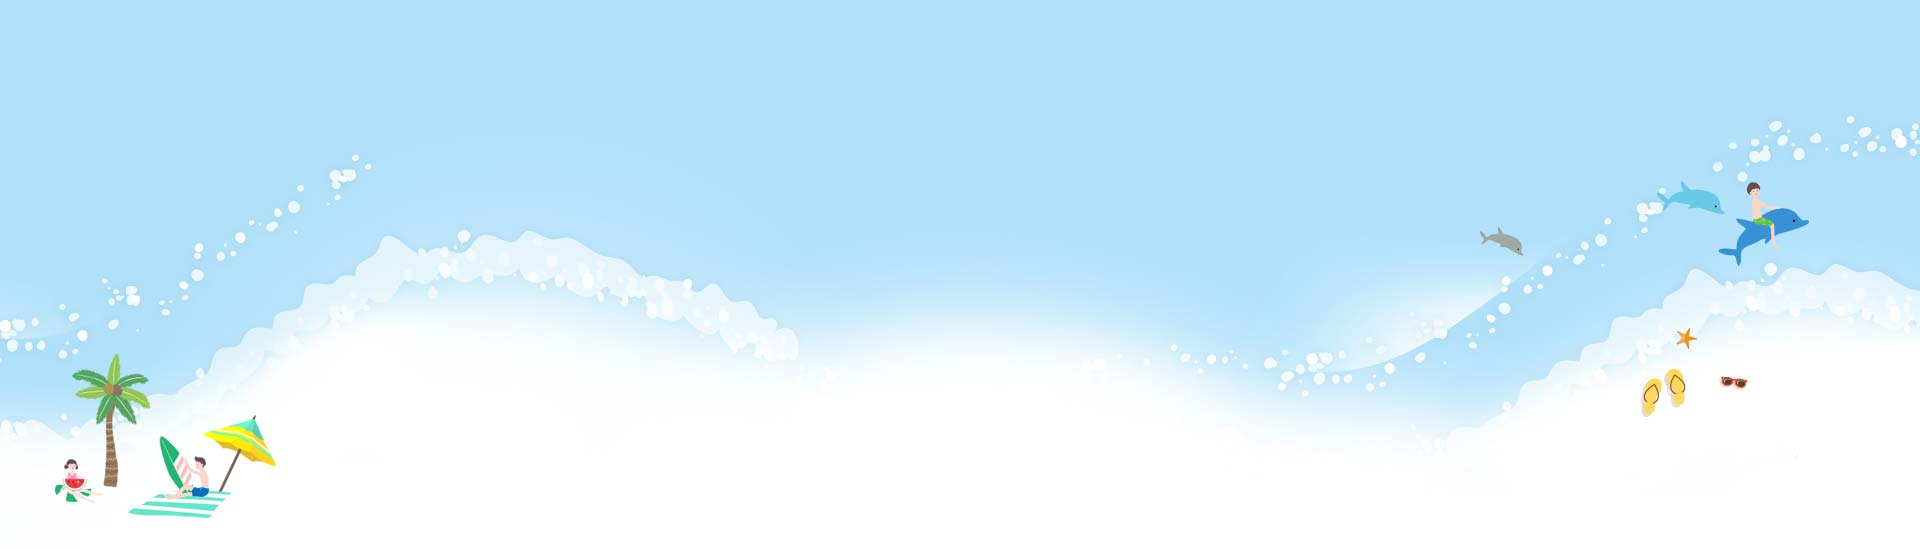
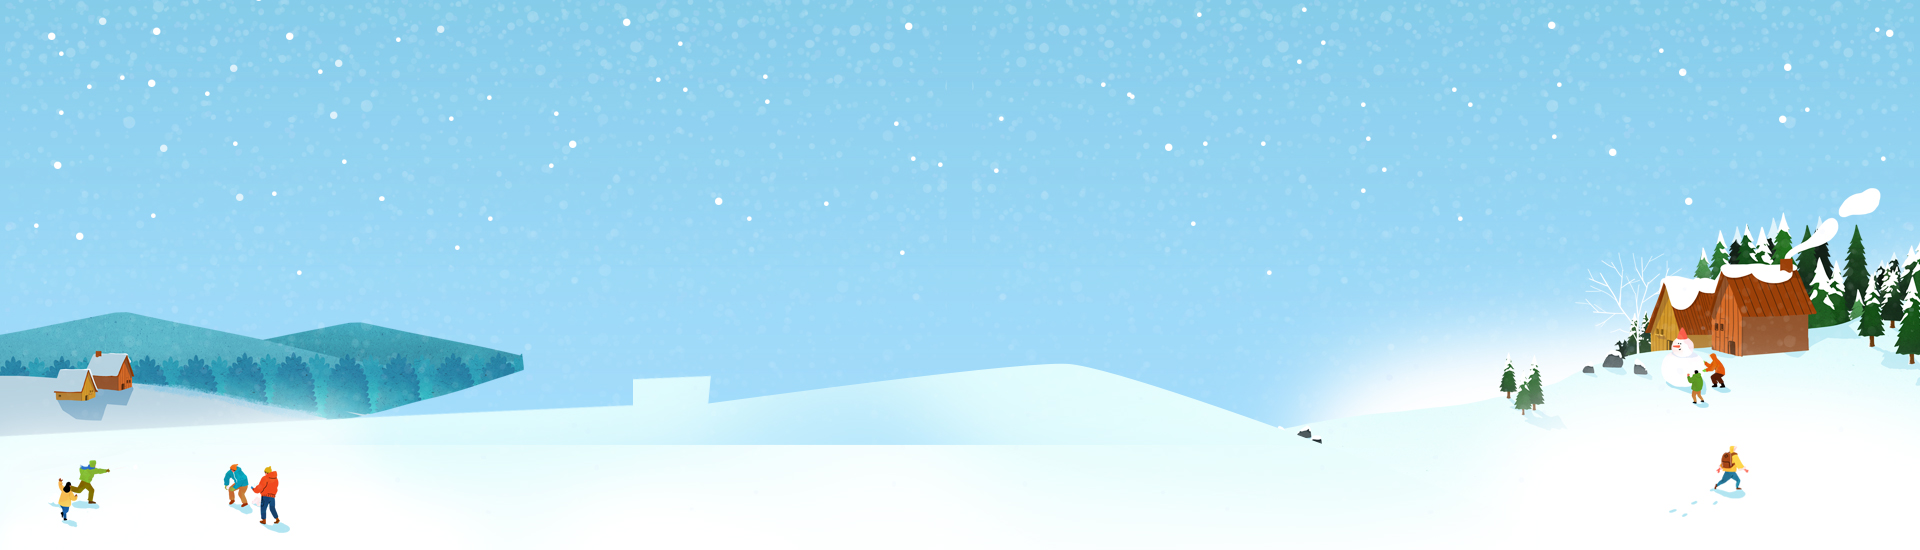
외부작업 적용

diff --git a/src/main/webapp/resources/common/css/default_new.css b/src/main/webapp/resources/common/css/default_new.css
@@ -44,7 +44,7 @@ input::placeholder{font-size:14px;letter-spacing:-0.5px;}
 nav,
 .Gnb .gnb-menu>li.mmode,
 .mmode{display:none}
-.mm-panels .mmode{width:100%;text-align:right;height:66px;left:0;top:-66px;background:none;overflow:hidden;border:1px solid #000}
+.mm-panels .mmode{width:100%;text-align:center;height:106px;left:0;top:-66px;background:none;overflow:hidden;border:1px solid #000;background:#333;}
 .mm-panels>.mm-panel.mmode:after,
 .mm-panels>.mm-panel.mmode:before{height:12px}
 .mm-panels .mmode a{display:inline-block;padding:5px 7px;border-radius:7px;text-align:center}
@@ -55,10 +55,10 @@ nav,
 .mm-panels .mmode a span,
 .mm-panels .mmode a i{vertical-align:middle;display:block}
 .mm-panels .mmode a.btn1,
-.mm-panels .mmode a.btn4{background:#2c75cb;border:1px solid #4087db}
+.mm-panels .mmode a.btn4{background:#2c75cb;border:1px solid #4087db;width:35%;}
 .mm-panels .mmode a.btn2,
-.mm-panels .mmode a.btn3{background:#707070;border:1px solid #818181}
-.mm-panels .mmode a.mobilemeberinfo{ background: #f4683c; border: 1px solid #ff9c66; }
+.mm-panels .mmode a.btn3{background:#707070;border:1px solid #818181;width:35%;margin-top:3px;}
+.mm-panels .mmode a.mobilemeberinfo{ background: #f4683c; border: 1px solid #ff9c66;width:35%;}
 @media (max-width:350px){
 	.mm-panels .mmode{text-align:center}
 	.mm-menu .mm-navbar a{font-size:0;line-height:0}
@@ -1005,6 +1005,7 @@ padding:20px 15px 20px 215px;margin-bottom:25px}
 @media all and (max-width:1024px){
 	.corpsIntro.intro2 .intro{background:none;padding:0 0 20px}
 	.corpsIntro.intro2 .intro img.bgImg{display:block;width:55%}
+	.shareArea{top:20px;right:20px;}
 	.shareArea li:first-child{display:none;}
 	.shareArea li:nth-child(3){display:none;}
 	.doc-info ul li{border-left:0;}
@@ -2073,3 +2074,10 @@ table td.leftblank { padding-left: 18px; }
 .pt30 {padding-top:30px;}
 .pt40 {padding-top:40px;}
 .pt50 {padding-top:50px;}
+
+/*서브페이지 네비게이션*/
+@media all and (max-width:425px){
+	.doc-title h3{font-size:24px;}
+	.doc-info ol{margin-top:5px;}
+	.doc-info ol li, .doc-info ol li a{font-size:12px !important;height:20px !important;line-height:20px !important;background-position:6px 7px !important;padding-left:10px;}
+}

diff --git a/src/main/webapp/resources/common/css/default_new_fullpage.css b/src/main/webapp/resources/common/css/default_new_fullpage.css
@@ -43,7 +43,7 @@ a {color:#000;}
 nav,
 .Gnb .gnb-menu>li.mmode,
 .mmode{display:none}
-.mm-panels .mmode{width:100%;text-align:right;height:66px;left:0;top:-66px;background:none;overflow:hidden;border:1px solid #000}
+.mm-panels .mmode{width:100%;text-align:center;height:106px;left:0;top:-66px;background:none;overflow:hidden;border:1px solid #000;background:#333;}
 .mm-panels>.mm-panel.mmode:after,
 .mm-panels>.mm-panel.mmode:before{height:12px}
 .mm-panels .mmode a{display:inline-block;padding:5px 7px;border-radius:7px;text-align:center}
@@ -54,10 +54,10 @@ nav,
 .mm-panels .mmode a span,
 .mm-panels .mmode a i{vertical-align:middle;display:block}
 .mm-panels .mmode a.btn1,
-.mm-panels .mmode a.btn4{background:#2c75cb;border:1px solid #4087db}
+.mm-panels .mmode a.btn4{background:#2c75cb;border:1px solid #4087db;width:35%;}
 .mm-panels .mmode a.btn2,
-.mm-panels .mmode a.btn3{background:#707070;border:1px solid #818181}
-.mm-panels .mmode a.mobilemeberinfo{ background: #f4683c; border: 1px solid #ff9c66; }
+.mm-panels .mmode a.btn3{background:#707070;border:1px solid #818181;width:35%;margin-top:3px;}
+.mm-panels .mmode a.mobilemeberinfo{ background: #f4683c; border: 1px solid #ff9c66;width:35%;}
 @media (max-width:350px){
 	.mm-panels .mmode{text-align:center}
 	.mm-menu .mm-navbar a{font-size:0;line-height:0}
@@ -1006,6 +1006,7 @@ padding:20px 15px 20px 215px;margin-bottom:25px}
 @media all and (max-width:1024px){
 	.corpsIntro.intro2 .intro{background:none;padding:0 0 20px}
 	.corpsIntro.intro2 .intro img.bgImg{display:block;width:55%}
+	.shareArea{top:5px;right:20px;}
 	.shareArea li:first-child{display:none;}
 	.shareArea li:nth-child(3){display:none;}
 	.doc-info ul li{border-left:0;}
@@ -2022,3 +2023,11 @@ table td.leftblank { padding-left: 18px; }
 .expiry_box .expiry_t2 .f_r {color: #fd4b4b;}
 
 .end {clear:both;}
+
+
+/*서브페이지 네비게이션*/
+@media all and (max-width:425px){
+	.doc-title h3{font-size:24px;}
+	.doc-info ol{margin-top:5px;}
+	.doc-info ol li, .doc-info ol li a{font-size:12px !important;height:20px !important;line-height:20px !important;background-position:6px 7px !important;padding-left:10px;}
+}

diff --git a/src/main/webapp/resources/common/css/jquery.mmenu.css b/src/main/webapp/resources/common/css/jquery.mmenu.css
@@ -16,7 +16,7 @@
 .mm-btn,.mm-panel.mm-highest{z-index:1}
 /* .mm-panels{overflow:hidden} */
 .mm-panel{-webkit-transition:-webkit-transform .4s ease;transition:-webkit-transform .4s ease;transition:transform .4s ease;transition:transform .4s ease,-webkit-transform .4s ease;-webkit-transform:translate(100%,0);-ms-transform:translate(100%,0);transform:translate(100%,0);-webkit-transform:translate3d(100%,0,0);transform:translate3d(100%,0,0)}
-.mm-panel.mm-opened{-webkit-transform:translate(0,0);-ms-transform:translate(0,0);transform:translate(0,0);-webkit-transform:translate3d(0,0,0);transform:translate3d(0,0,0);margin-top: 40px;}
+.mm-panel.mm-opened{-webkit-transform:translate(0,0);-ms-transform:translate(0,0);transform:translate(0,0);-webkit-transform:translate3d(0,0,0);transform:translate3d(0,0,0);}
 .mm-panel.mm-subopened{-webkit-transform:translate(-30%,0);-ms-transform:translate(-30%,0);transform:translate(-30%,0);-webkit-transform:translate3d(-30%,0,0);transform:translate3d(-30%,0,0)}
 .mm-panels>.mm-panel{-webkit-overflow-scrolling:touch;overflow:scroll;overflow-x:hidden;overflow-y:auto;padding:0 20px}
 .mm-listview .mm-divider,.mm-listview>li>a,.mm-listview>li>span,.mm-navbar .mm-title{text-overflow:ellipsis;white-space:nowrap;overflow:hidden}
@@ -66,7 +66,7 @@
 .mm-listview .mm-next.mm-fullsubopen:before{border-left:none}
 .mm-listview .mm-next.mm-fullsubopen+a,.mm-listview .mm-next.mm-fullsubopen+span{padding-right:50px;margin-right:0}
 .mm-panels>.mm-panel>.mm-listview{margin:0px -20px}
-.mm-panels>.mm-panel>.mm-listview:first-child,.mm-panels>.mm-panel>.mm-navbar+.mm-listview{margin-top:-20px;}
+.mm-panels>.mm-panel>.mm-listview:first-child,.mm-panels>.mm-panel>.mm-navbar+.mm-listview{margin-top:20px;}
 .mm-listview .mm-inset{list-style:disc inside;padding:0 10px 15px 40px;margin:0}
 .mm-listview .mm-inset>li{padding:5px 0}
 .mm-listview .mm-divider{font-size:10px;text-transform:uppercase;text-indent:20px;line-height:25px}

diff --git a/src/main/webapp/resources/common/css/sub_design_new.css b/src/main/webapp/resources/common/css/sub_design_new.css
@@ -955,8 +955,8 @@ dt,dd{;word-break:keep-all}
 .move_box_img05{background:url('/resources/common/img/book_img05.jpg')no-repeat;}
 .move_box h5{font-family:'S-CoreDream-7ExtraBold';font-size:33px;color:#fff;letter-spacing:-0.75px;padding:60px 0 10px;}
 .move_box p{font-family:'S-CoreDream-3Light';font-size:18px;color:#fff;letter-spacing:-0.75px;padding-bottom:30px;}
-.move_box .move_btn{position:relative;width:120px;margin:0 auto;background:#0738a8 url('/resources/common/img/move_btn.png')no-repeat 50px 20px;padding:15px 20px 15px 50px;font-size:15px;color:#fff;letter-spacing:-0.75px;cursor:pointer;transition:0.5s;}
-.move_box .move_btn:hover{color:#0738a8;transition:0.5s;background:#fff url('/resources/common/img/move_btn_hover.png')no-repeat 35px 20px;}
+.move_box .move_btn{position:relative;width:120px;margin:0 auto;background:#0738a8 url('/resources/common/img/move_btn.png')no-repeat 50px 20px;padding:15px 20px 15px 50px;font-size:15px;color:#fff !important;letter-spacing:-0.75px;cursor:pointer;transition:0.5s;}
+.move_box .move_btn:hover{color:#0738a8 !important;transition:0.5s;background:#fff url('/resources/common/img/move_btn_hover.png')no-repeat 35px 20px;}
 
 .move_txt{text-align:center;padding:30px 0 40px;border-bottom:1px solid #ddd;margin-bottom:50px;text-align:center;}
 .move_txt p{font-size:16px;color:#222;line-height:160%;}

diff --git a/src/main/webapp/resources/homepage/dmsl/css/main.css b/src/main/webapp/resources/homepage/dmsl/css/main.css
@@ -166,7 +166,11 @@ ul.book_photo li a span.con-author {display:none;}
 	.books-tits li {display:block;line-height:120%;color:#20252f;letter-spacing:-1px;}
 	.books-tits li:nth-child(1) {font-size:18px;padding-top:15px;}
 	.books-tits li:nth-child(2) {font-size:20px;padding-top:5px;}
-	a.btn-link-more {position:absolute;display:block;font-size:0;right:10px;top:15px;margin-top:0;}
+
+	.book-box{position:relative;}
+
+	.btn-link-box{position:absolute;top:-70px;right:20px;width:50px;height:50px;}
+	a.btn-link-more {display:block;font-size:0;margin-top:0;bottom:0;}
 
 	.tabMenuS {width:54.5%;margin:13px auto 20px;}
 	.tabMenuS li {width:32.7%;text-align:center;}
@@ -213,6 +217,8 @@ ul.book_photo li a span.con-author {display:none;}
 }
 
 @media all and (max-width:425px){
+	.m_none{display:none;}
+
 	.search-box select.search_type{display:none;}
 	.search-box input{padding-left:30px;}
 

diff --git a/src/main/webapp/resources/book/css/serial.css b/src/main/webapp/resources/book/css/serial.css
@@ -100,7 +100,7 @@ width:118px;border:1px solid #ddd;margin-right:15px;}
 	.serial-wrap .search-info{margin-top:5px}
 	.serial-wrap .search-results .row .thumb{width:88px;margin-right:15px}
 	.serial-wrap .search-results .row .item .bif{margin-left:105px;min-height:140px}
-	.serial-wrap .search-results .row .item a.name{font-size: 100%;}
+	.serial-wrap .search-results .row .item a.name{font-size: 100%;height:3.0em;}
 }
 
 .sview{border-top:2px solid #5e6062}
